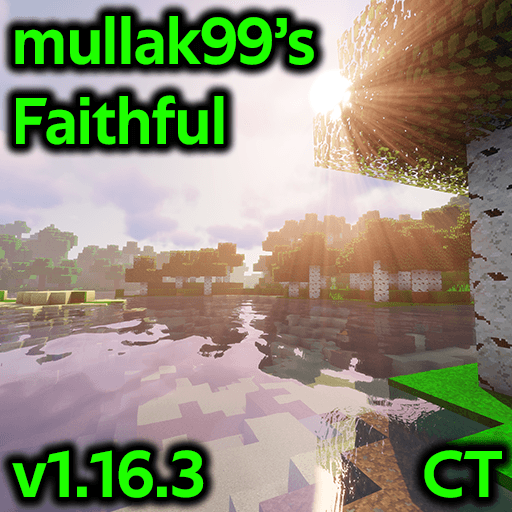
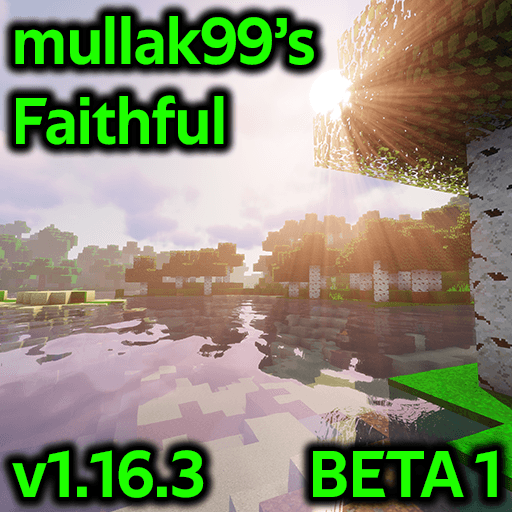
Revert to b84974b

Changed region(s): [[0.5625, 0.8438, 1.0, 1.0]]

diff --git a/README.md b/README.md
@@ -1,6 +1,6 @@
 # mullak99's Faithful 32x
 
-**Current Branch Version:** _v1.16.3-CT200810-1_  
+**Current Branch Version:** _v1.16.3-BETA1_  
 
 ## Branch Breakdown
 
